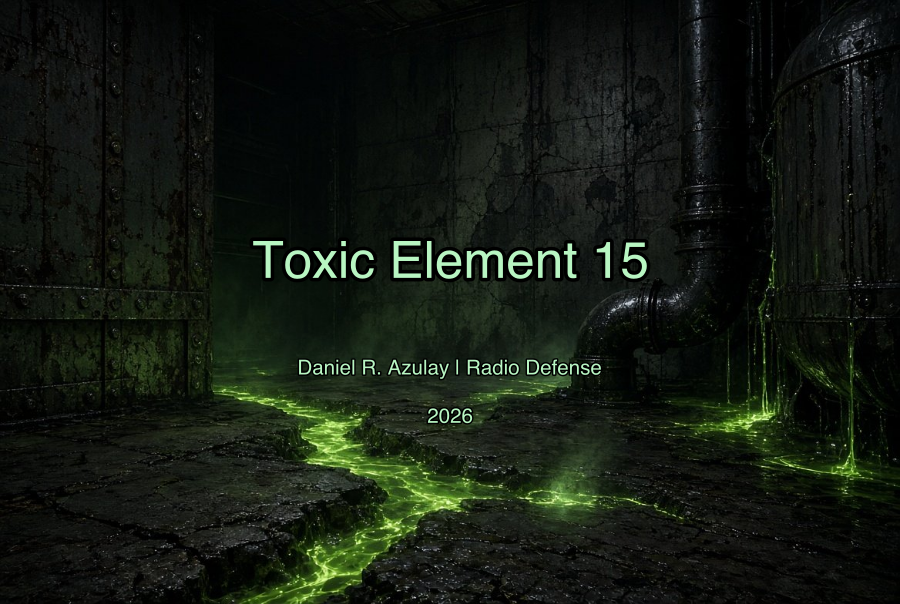
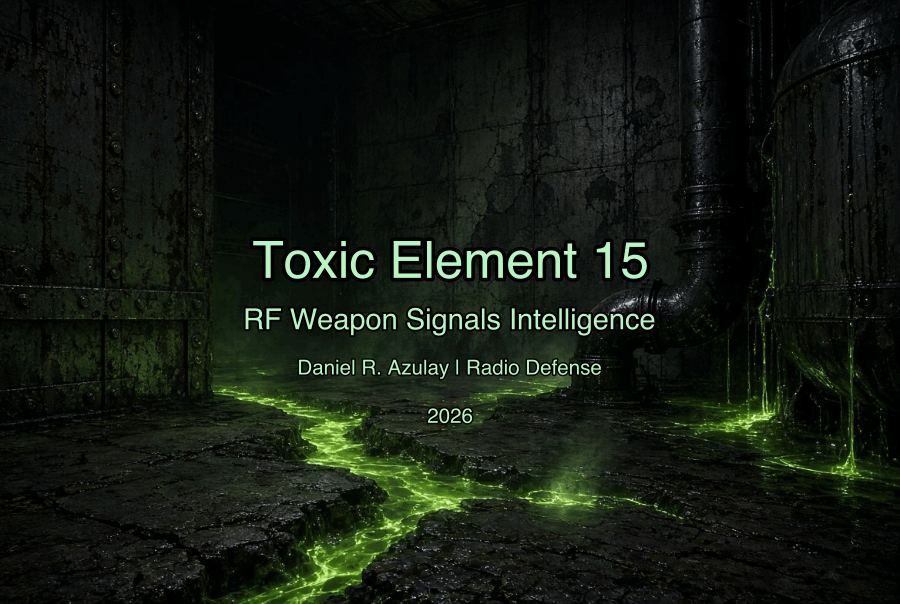
About screen: add the "RF Weapon Signals Intelligence" tagline
Under "Toxic Element 15" there is now the line
"RF Weapon Signals Intelligence", drawn with a font size between the title
and the author line (0.048 of the window height vs 0.085 for the title and
0.034 for the lines below), positioned between them, with the same bold
pale-green fill and black outline.

Verified with the About harness: the rendered screen contains pale-green
text in the title, tagline, author and year bands (965 / 435 / 171 / 48
sampled pixels), the window still shows the artwork, stays open until
explicitly closed and remains modal; the preview in docs/about_preview.png
was regenerated. 1091 suite checks, golden report byte-identical, GUI smoke
test silent, all UI harnesses pass.

Changed region(s): [[0.2489, 0.5066, 0.7467, 0.5662]]

diff --git a/src/ui.c b/src/ui.c
@@ -4002,6 +4002,7 @@ static void on_open_menu(GtkMenuItem *item, gpointer user_data)
 /* --- About screen ------------------------------------------------------- */
 
 #define ABOUT_TITLE   "Toxic Element 15"
+#define ABOUT_TAGLINE "RF Weapon Signals Intelligence"
 #define ABOUT_AUTHOR  "Daniel R. Azulay | Radio Defense"
 #define ABOUT_YEAR    "2026"
 #define ABOUT_WINDOW_W 900
@@ -4109,6 +4110,9 @@ static void about_render(cairo_t *cr, int w, int h)
         }
     }
     about_draw_text(cr, ABOUT_TITLE, w / 2.0, h * 0.46, h * 0.085);
+    /* the tagline sits between the title and the author line, with a size
+     * between theirs */
+    about_draw_text(cr, ABOUT_TAGLINE, w / 2.0, h * 0.545, h * 0.048);
     about_draw_text(cr, ABOUT_AUTHOR, w / 2.0, h * 0.62, h * 0.034);
     about_draw_text(cr, ABOUT_YEAR, w / 2.0, h * 0.70, h * 0.034);
 }

diff --git a/DESIGN.md b/DESIGN.md
@@ -146,9 +146,10 @@ with marked peaks, and the ranked cyclic feature list.
 ## About screen
 
 **File > About** opens a modal screen whose background is the
-dark-industrial artwork with **Toxic Element 15**,
-**Daniel R. Azulay | Radio Defense** and **2026** overlaid in bold
-pale-green text with a black border. The artwork (`media/about.gif`) is
+dark-industrial artwork with **Toxic Element 15**, **RF Weapon Signals
+Intelligence** (tagline, drawn with an intermediate font size between the
+title and the lines below), **Daniel R. Azulay | Radio Defense** and
+**2026** overlaid in bold pale-green text with a black border. The artwork (`media/about.gif`) is
 converted to a C array by `tools/bin2c.c` at build time and **embedded in
 the executable**, so the screen never reads it from disk at run time; it
 closes only on an explicit user action (Escape/Return or the window's
